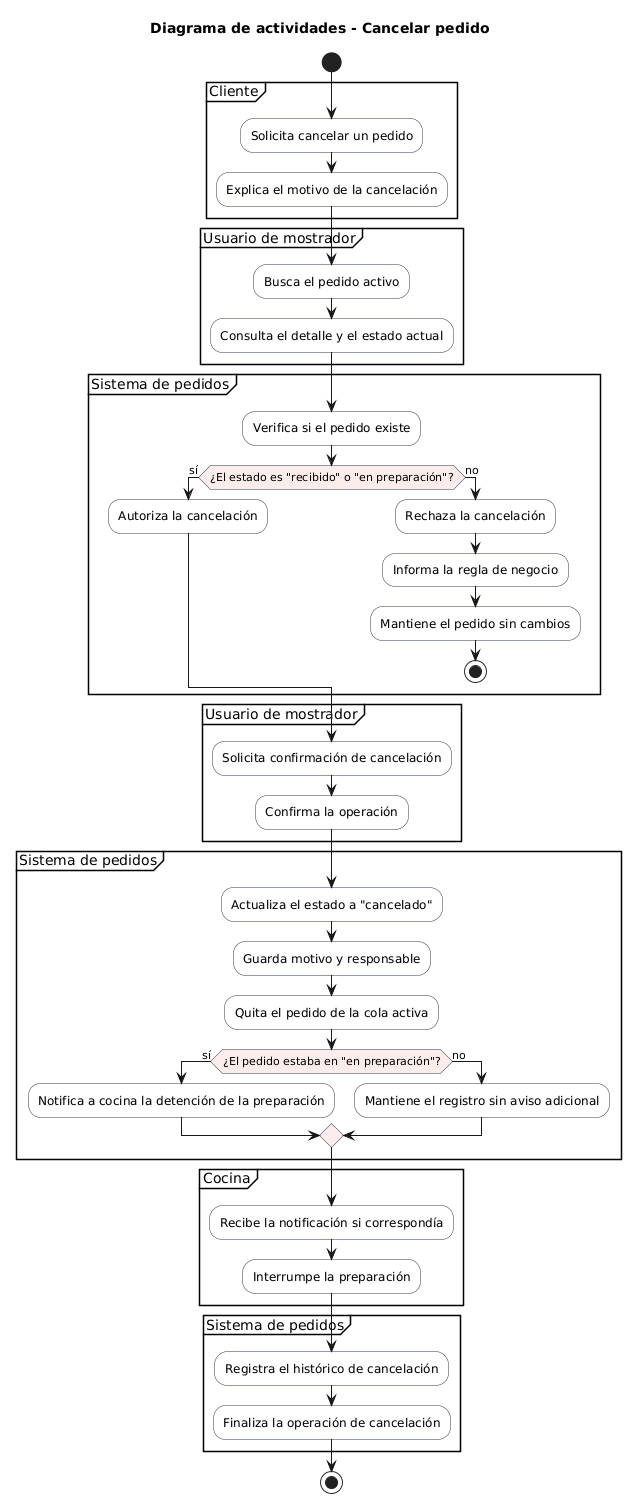
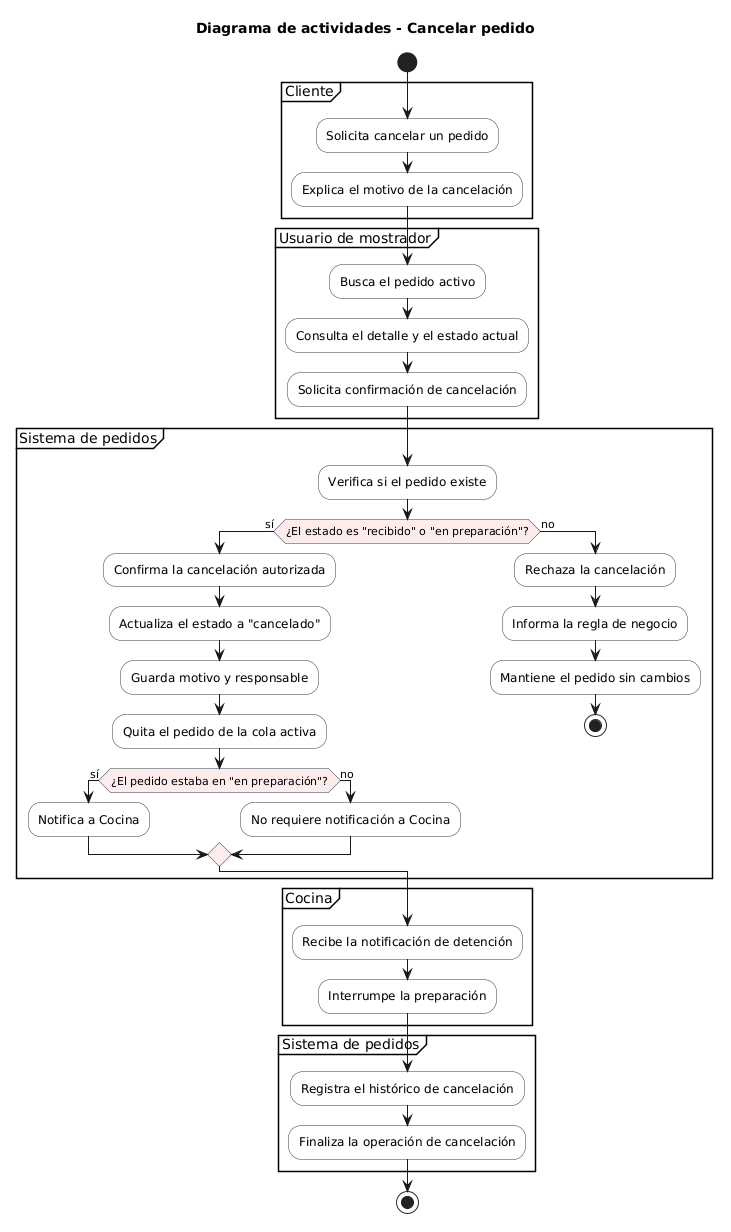
Correcciones segunda vuelta

Changed region(s): [[0.0, 0.0, 1.0, 0.987], [0.9062, 0.2468, 0.9375, 0.2776]]

diff --git a/ia/a3/esp-actividades-3-4-5.md b/ia/a3/esp-actividades-3-4-5.md
@@ -1,4 +1,4 @@
-# Especialista en diagramas de actividades (Casos de uso 3, 4 y 5)
+# Especialista en diagramas de actividades (Casos de uso 3, 4, 5 y 6)
 
 ## Prompt utilizado
 
@@ -56,6 +56,8 @@ Durante la generación se realizaron los siguientes ajustes para mantener la tra
 
 ## Ajustes o iteracciones realizados
 
-Al concluir el trabajo fue necesario seleccionar los diagramas correctos debido a que hubo una duplicación de diagramas y nombres cruzados. El resto de las correcciones se realizaron a partir de las RC que solicito el coordinador.
+Se recibieron observaciones sobre la secuencia del CU3, el reintento del CU4, la responsabilidad de los carriles en CU5 y la interrupción de Cocina en CU6. En respuesta, se reordenaron las actividades para validar primero la búsqueda y carga del detalle antes de mostrarlo al usuario, se incorporó un ciclo explícito de reintento en el cobro cuando el pago era rechazado, se separaron las responsabilidades de entrega y confirmación de recepción y se dejó la notificación a Cocina condicionada únicamente al caso en que el pedido estaba en estado `en preparación`.
 
-El resultado final quedó integrado en el repositorio con archivos `.puml` y `.png` y listo para revisión en la carpeta indicada.
+Además, se corrigió la trazabilidad documental del entregable: la referencia del changelog quedó alineada con la ruta real del documento `ia/a3/esp-actividades-3-4-5.md` y se incorporó la información del responsable con su rol para mantener el mismo formato que en entregas anteriores.
+
+El resultado final quedó integrado en el repositorio con los diagramas actualizados y la documentación de IA corregida para revisión en la carpeta indicada.
